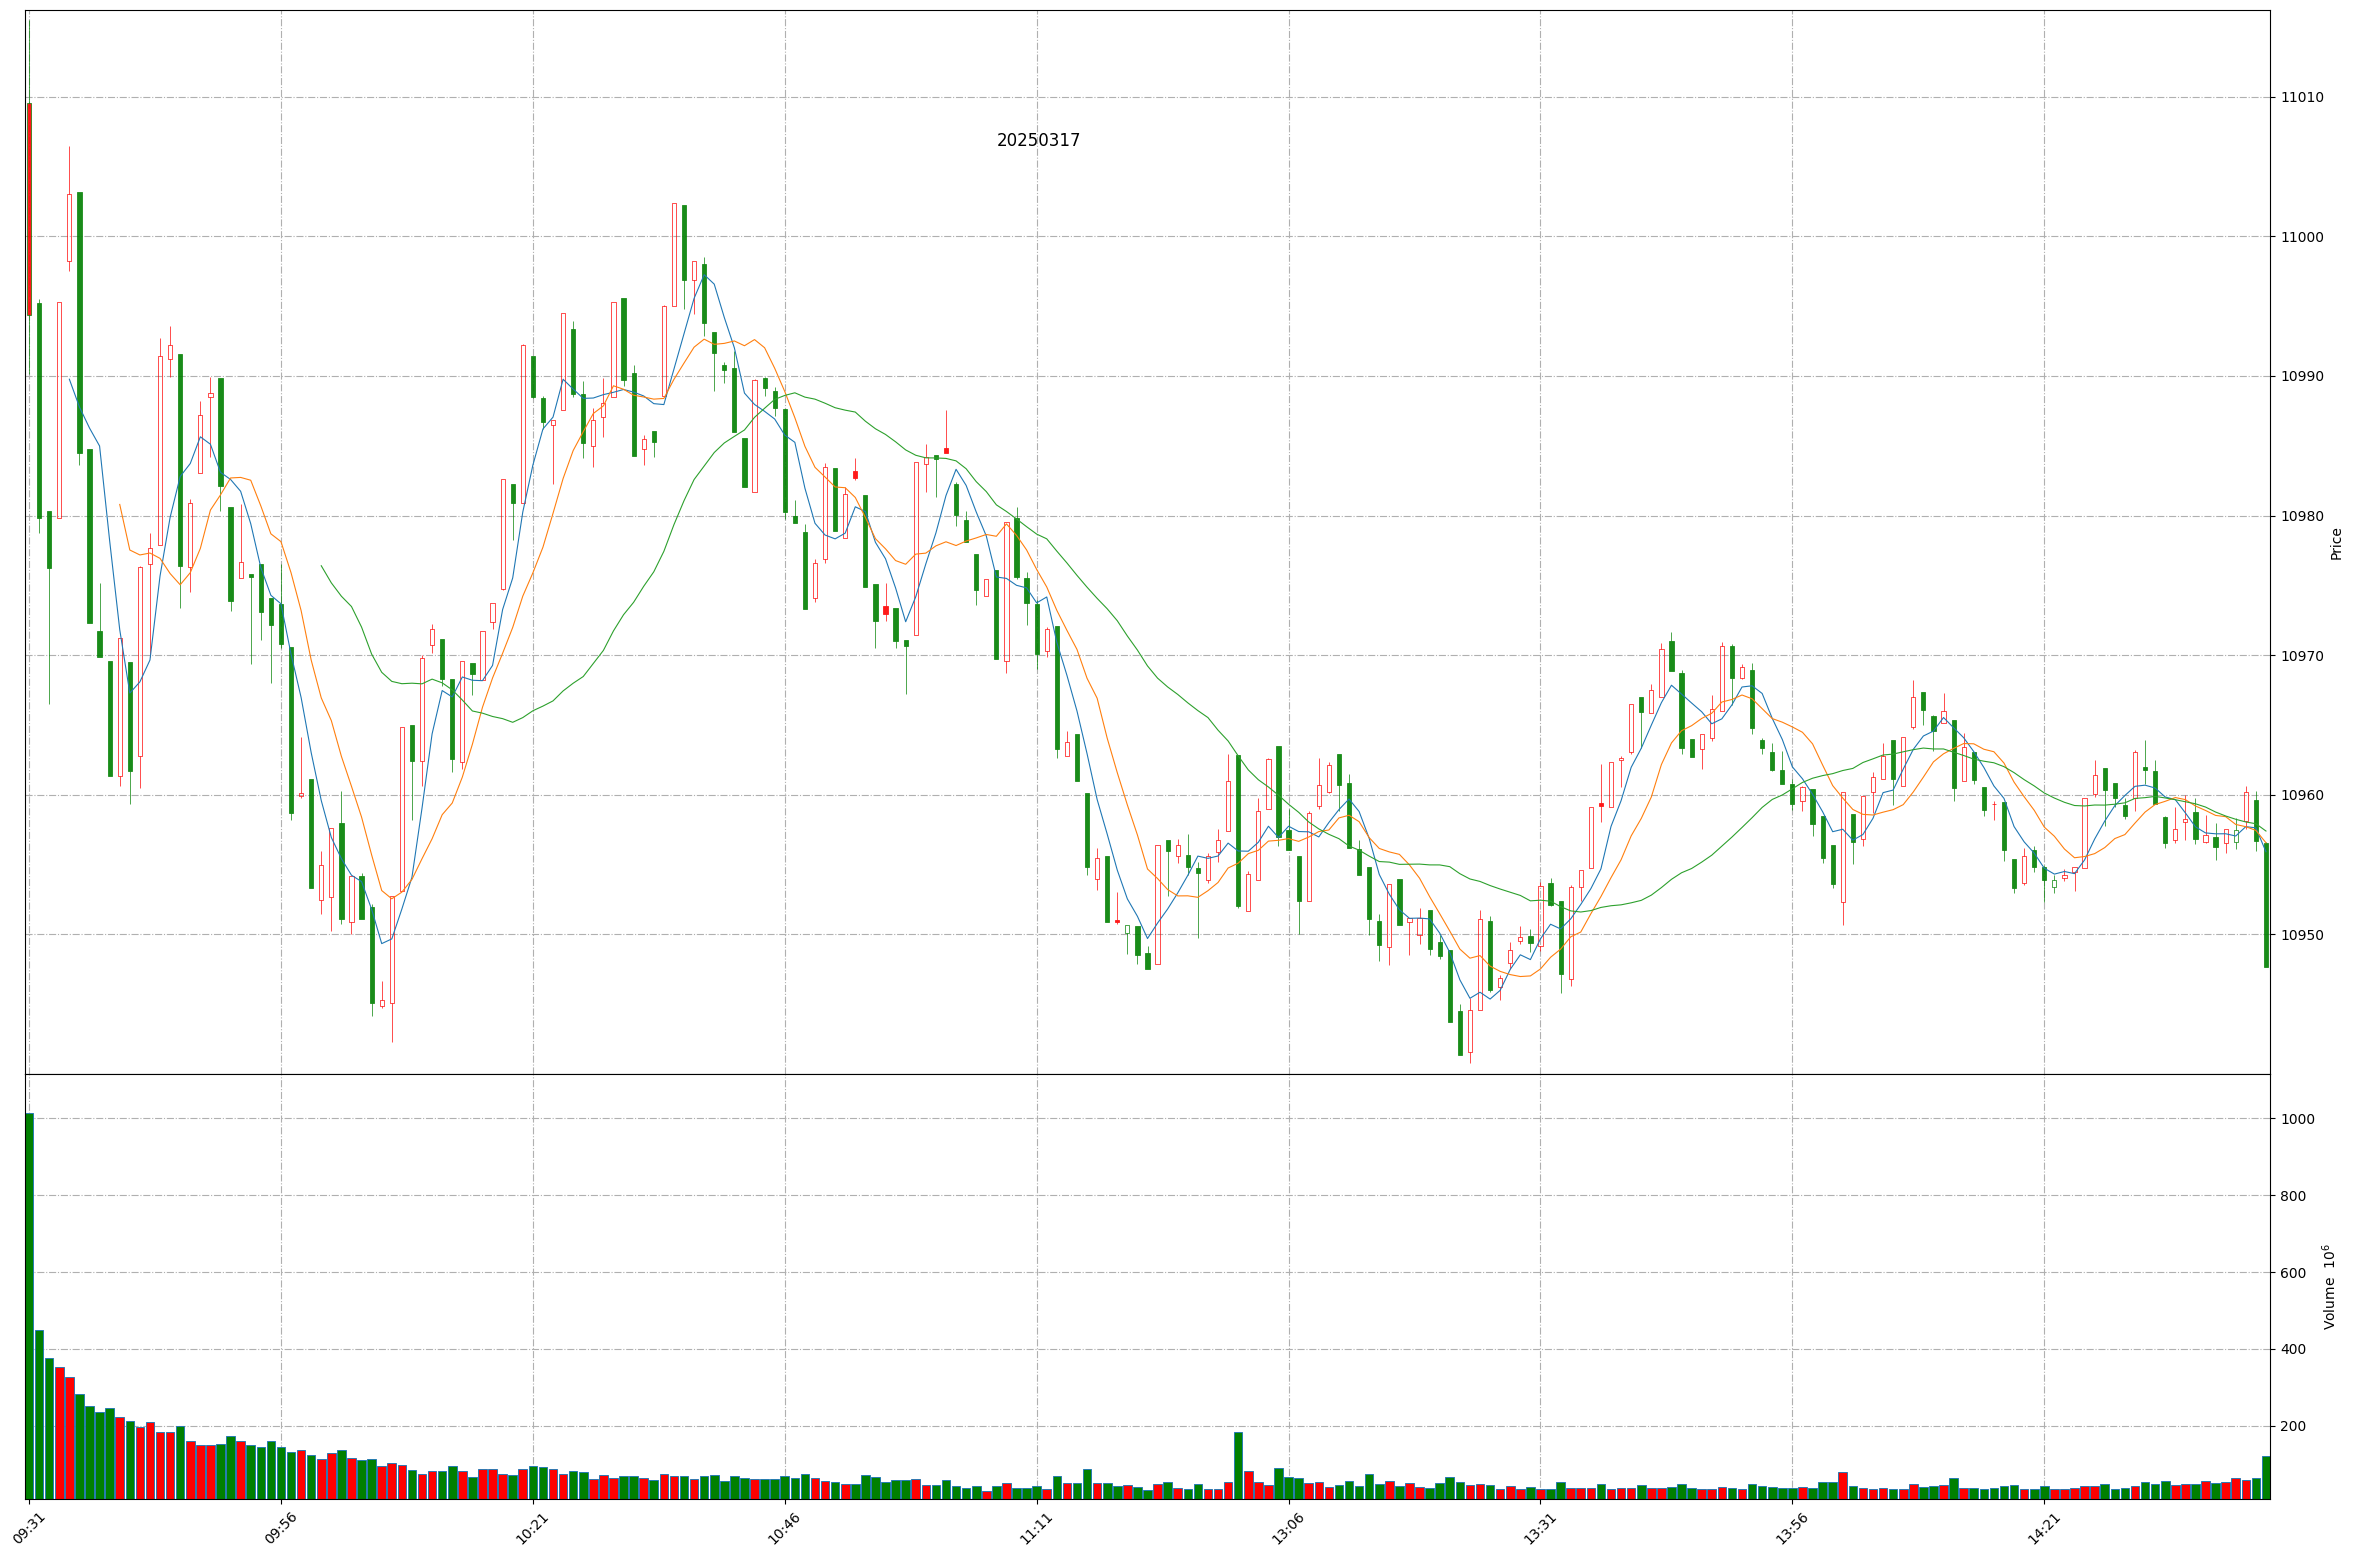
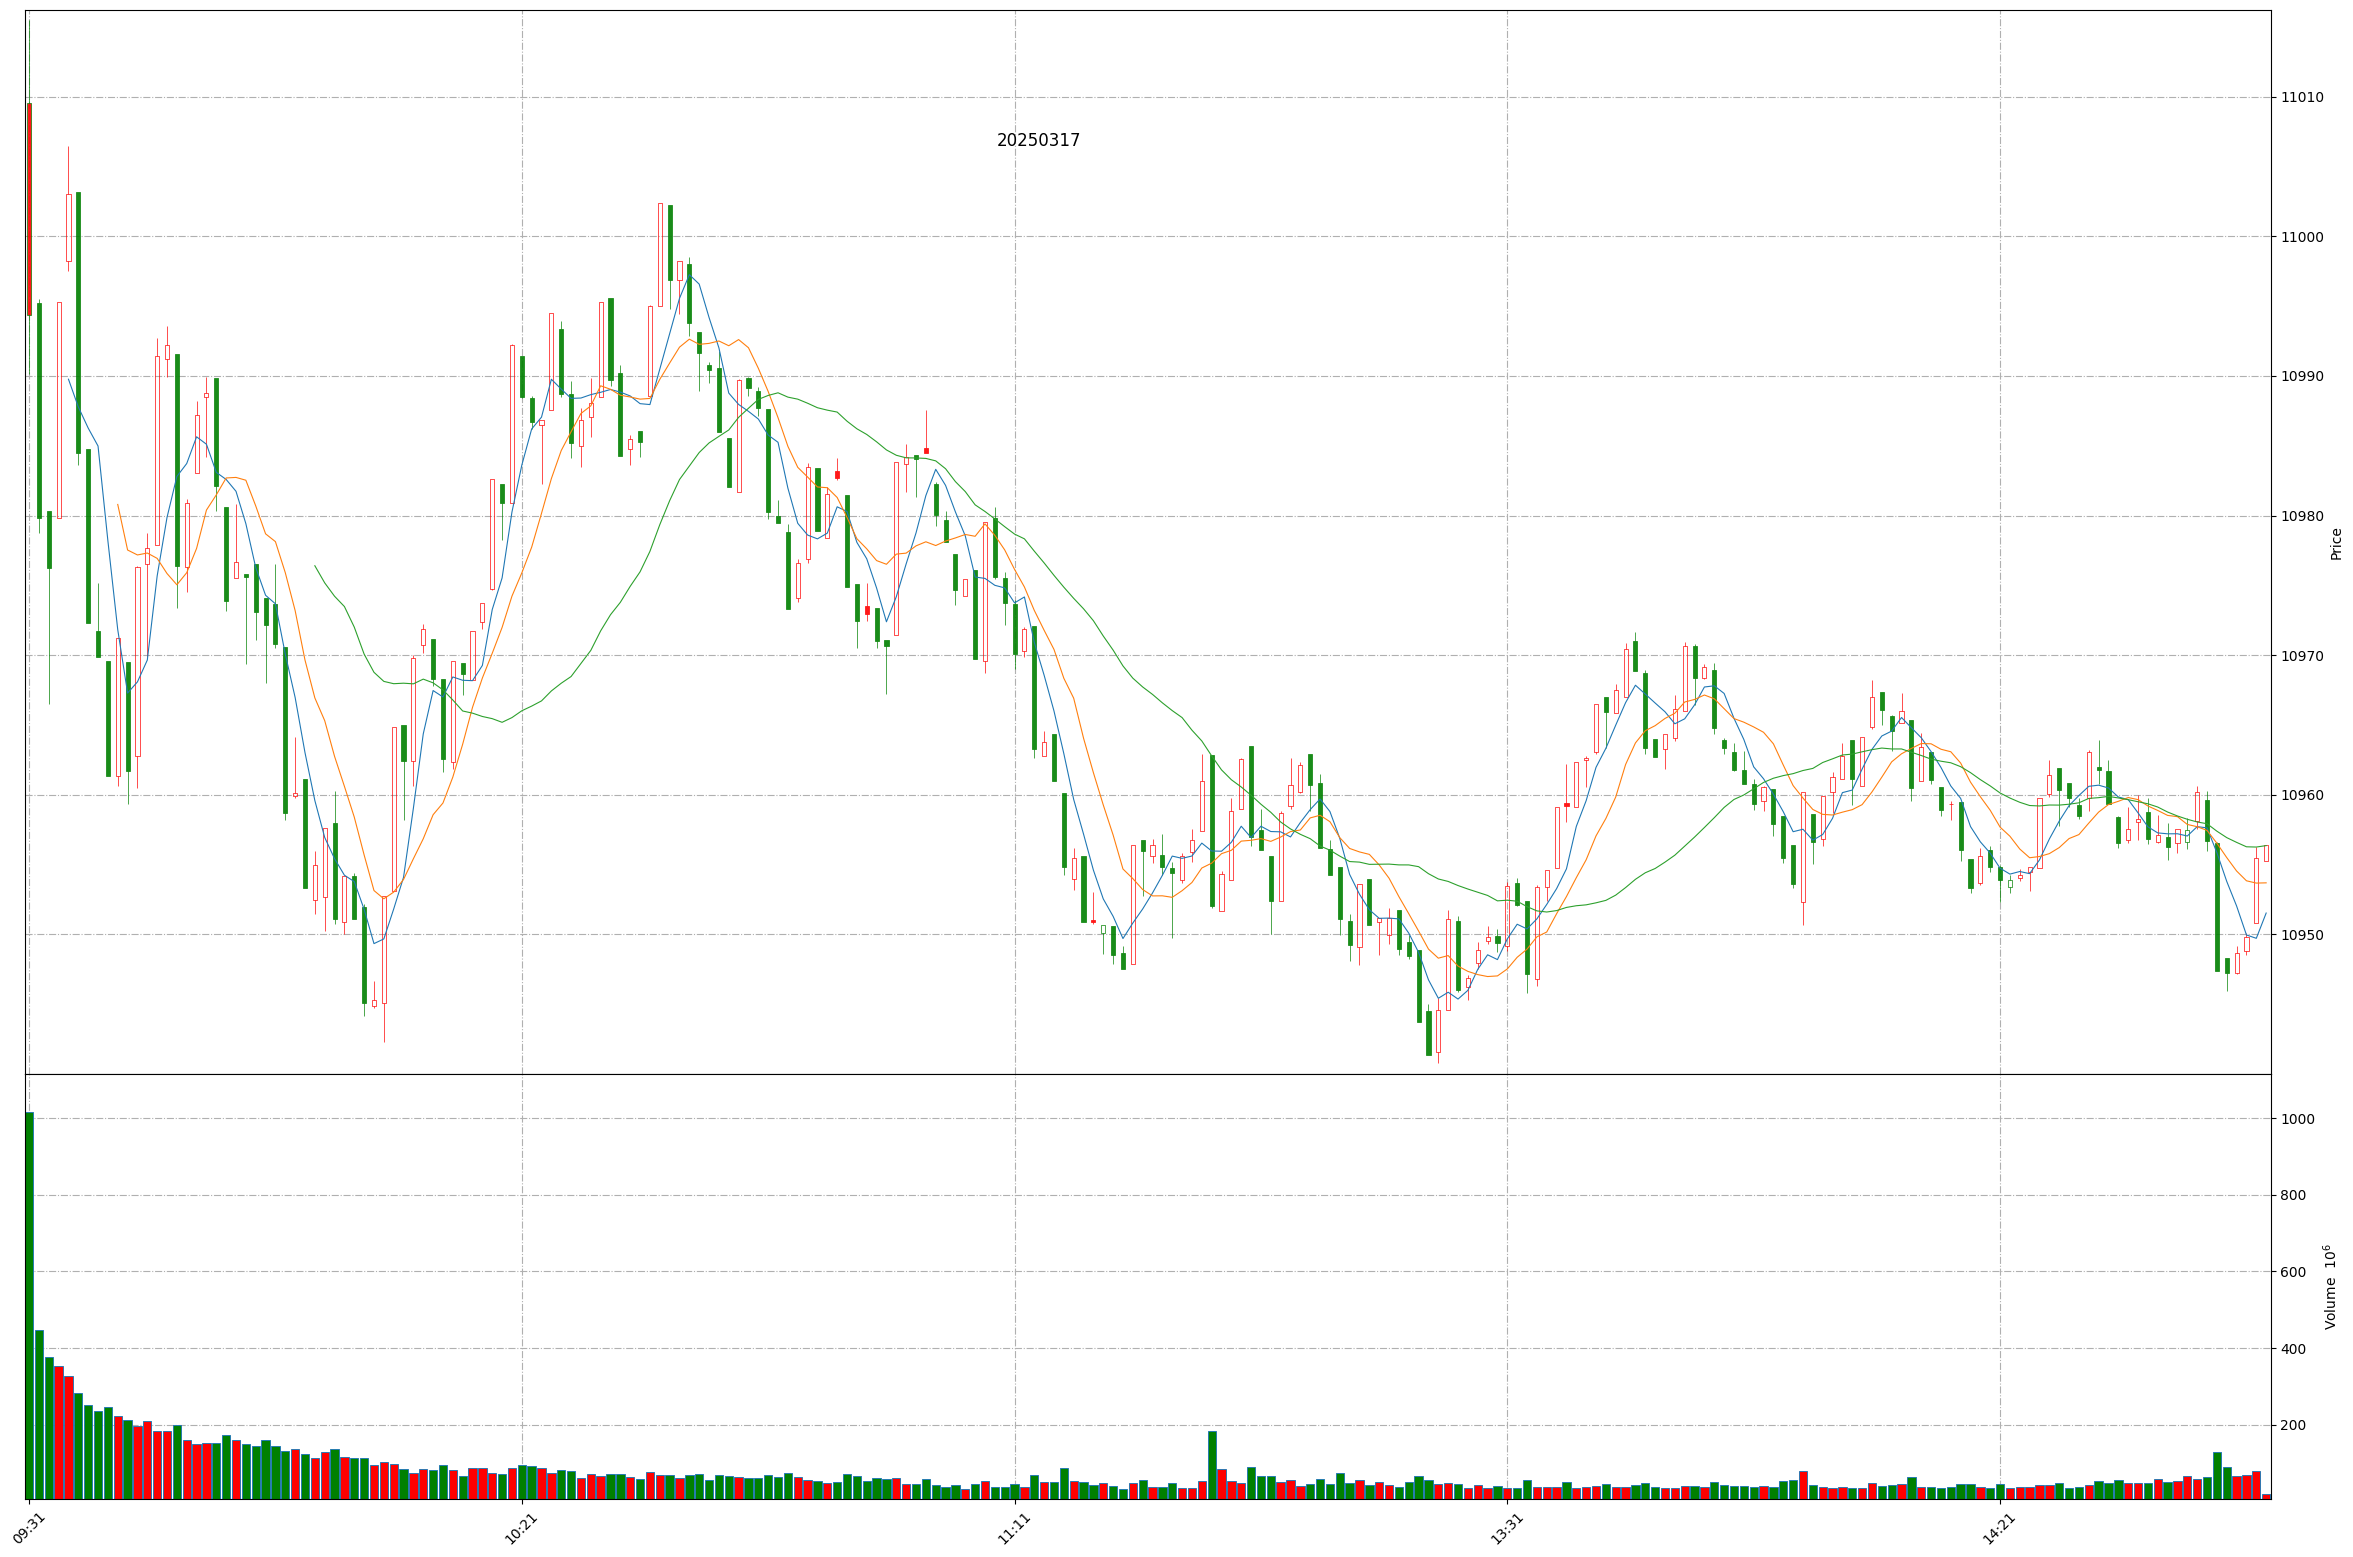
Github action update at 2025-03-17 14:47:27.

diff --git a/README.md b/README.md
@@ -1,11 +1,11 @@
 
 # Daily-A-share-market-quotes 每日 A 股指数（5min 更新）- 20250317
 
-### 上证指数 20250317 14:43
+### 上证指数 20250317 14:47
 ![](./fig/2025/3/20250317-sh000001.png)
 
-### 深证成指 20250317 14:43
+### 深证成指 20250317 14:47
 ![](./fig/2025/3/20250317-sz399001.png)
 
-### 北证50 20250317 14:43
+### 北证50 20250317 14:47
 ![](./fig/2025/3/20250317-bj899050.png)
